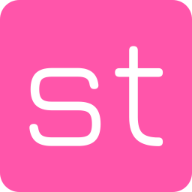
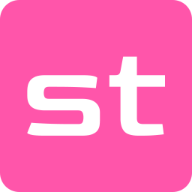
this looks kinda cool

Changed region(s): [[0.125, 0.3438, 0.5312, 0.7812], [0.5625, 0.2188, 0.875, 0.7812]]

diff --git a/client/index.html b/client/index.html
@@ -14,7 +14,7 @@
   <meta name="viewport" content="initial-scale=1, width=device-width" />
   <link rel="preconnect" href="https://fonts.googleapis.com" />
   <link rel="preconnect" href="https://fonts.gstatic.com" crossorigin />
-  <link rel="stylesheet" href="https://fonts.googleapis.com/css2?family=Roboto:wght@300;400;500;700&display=swap" />
+  <link rel="stylesheet" href="https://fonts.googleapis.com/css2?family=Roboto:wght@300;400;500;700&family=Goldman:wght@400;700&display=swap" />
   <link rel="stylesheet" href="https://fonts.googleapis.com/icon?family=Material+Icons" />
   <meta name="viewport" content="width=device-width, initial-scale=1" />
   <meta name="theme-color" content="#fe54a9" />

diff --git a/client/src/components/Home.tsx b/client/src/components/Home.tsx
@@ -30,13 +30,14 @@ function Home() {
             padding={1} 
             lineHeight={1}
             variant="h4"
-            fontWeight="bold"
             sx={{
                 textAlign: "center", 
                 color: "white",
-                textShadow: "black 2px 2px 2px",
+                textShadow: "black 1px 1px 1px",
                 backgroundColor: "#fb51aa",
-                borderRadius: "8px"
+                borderRadius: "8px",
+                fontFamily: '"Goldman", sans-serif',
+                fontStyle: "normal"
             }}
         >
             strafes
